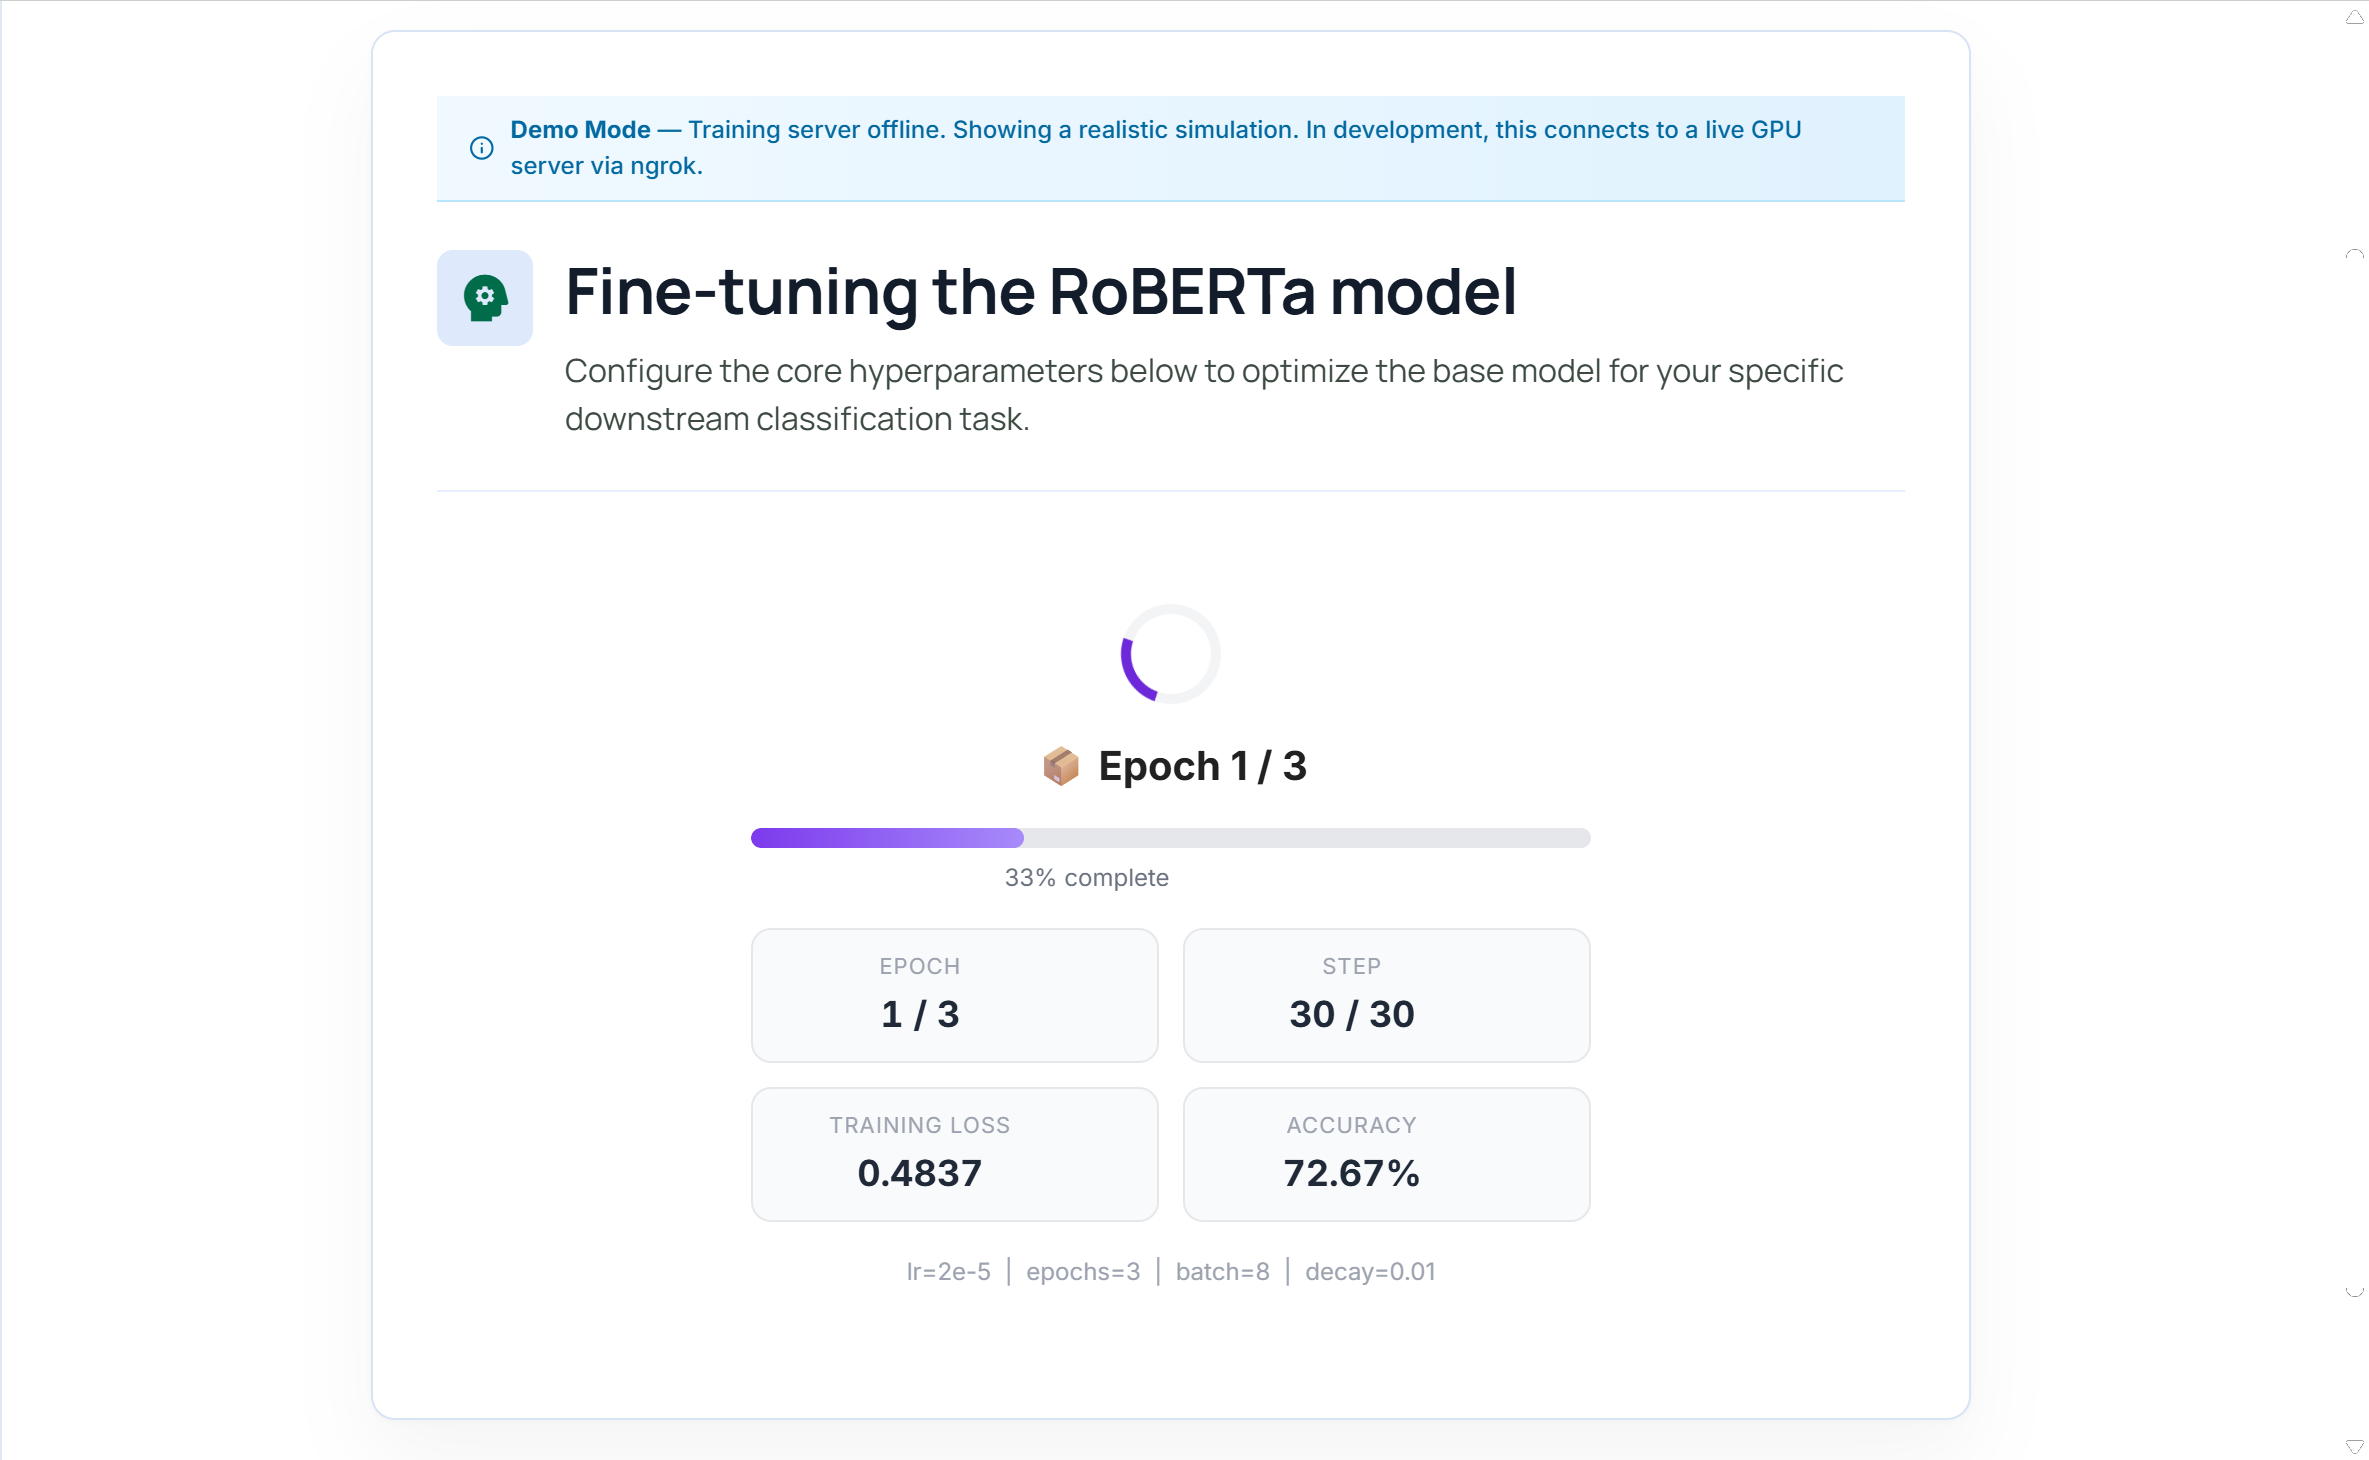
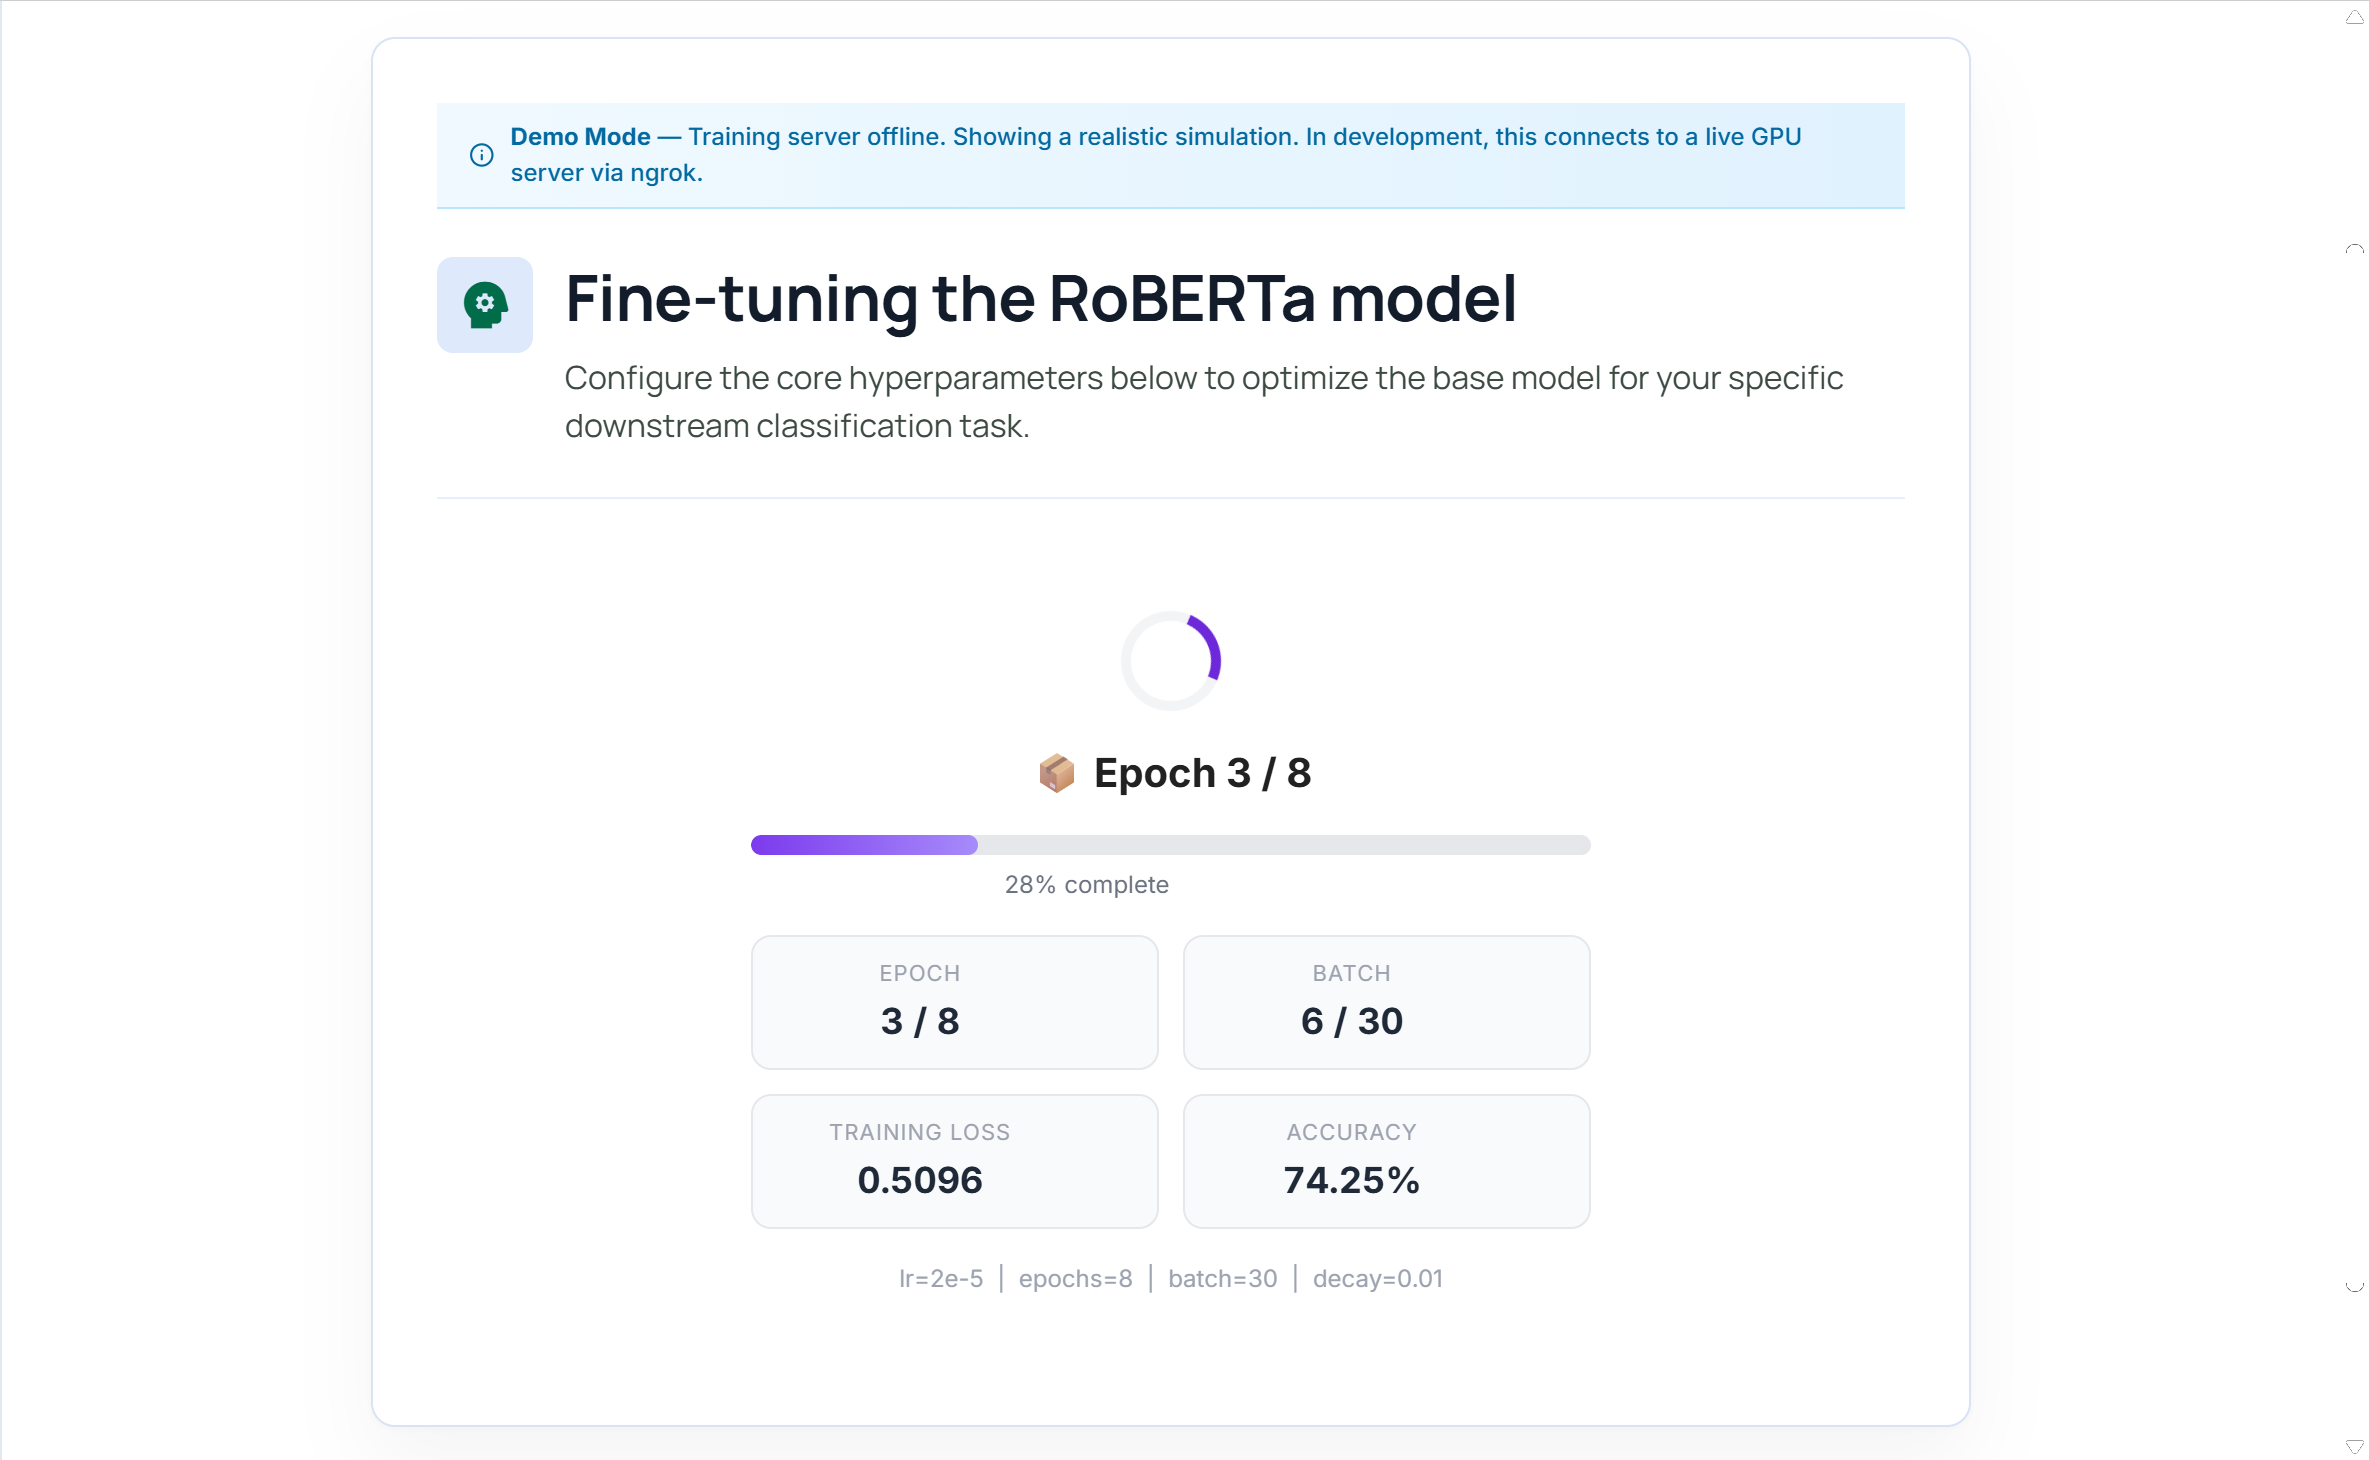
fix image landing page

diff --git a/src/components/modelSimulation/paper/fineTunePaper/fineTunePaper.js b/src/components/modelSimulation/paper/fineTunePaper/fineTunePaper.js
@@ -648,7 +648,7 @@ const FineTunePaper = () => {
                     value: `${simProgress.currentEpoch} / ${simProgress.totalEpochs}`,
                   },
                   {
-                    label: "Step",
+                    label: "Batch",
                     value: `${simProgress.step} / ${simProgress.totalSteps}`,
                   },
                   { label: "Training Loss", value: simProgress.loss },
